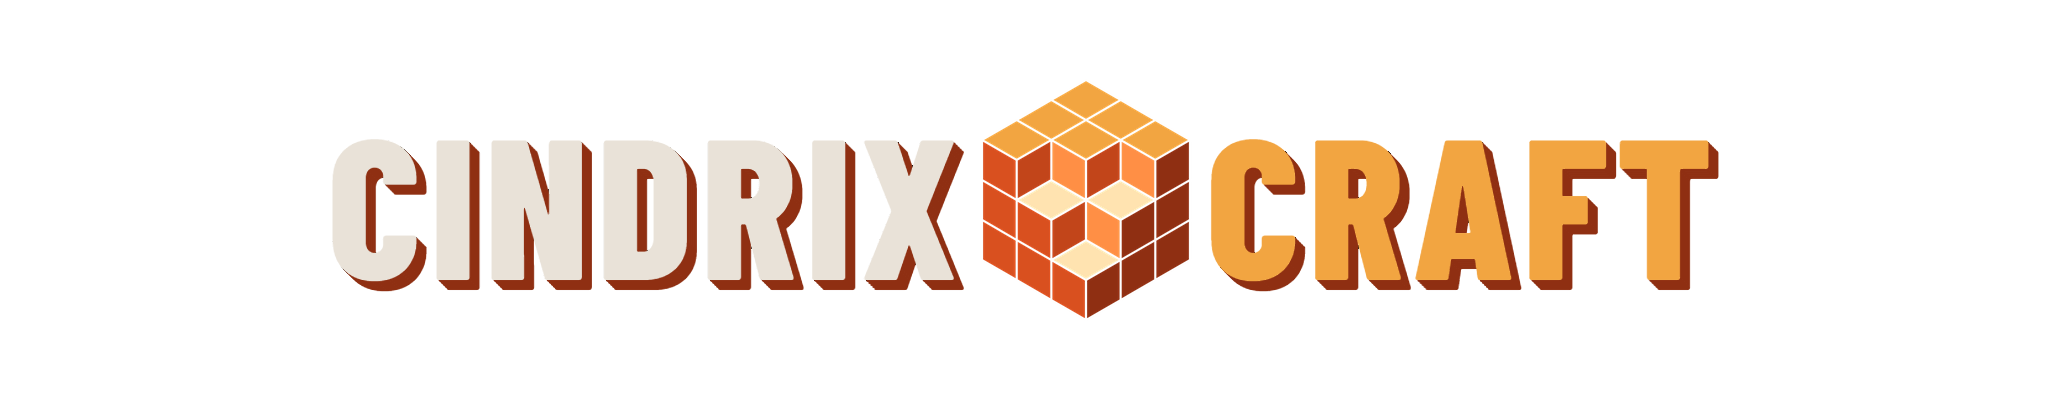
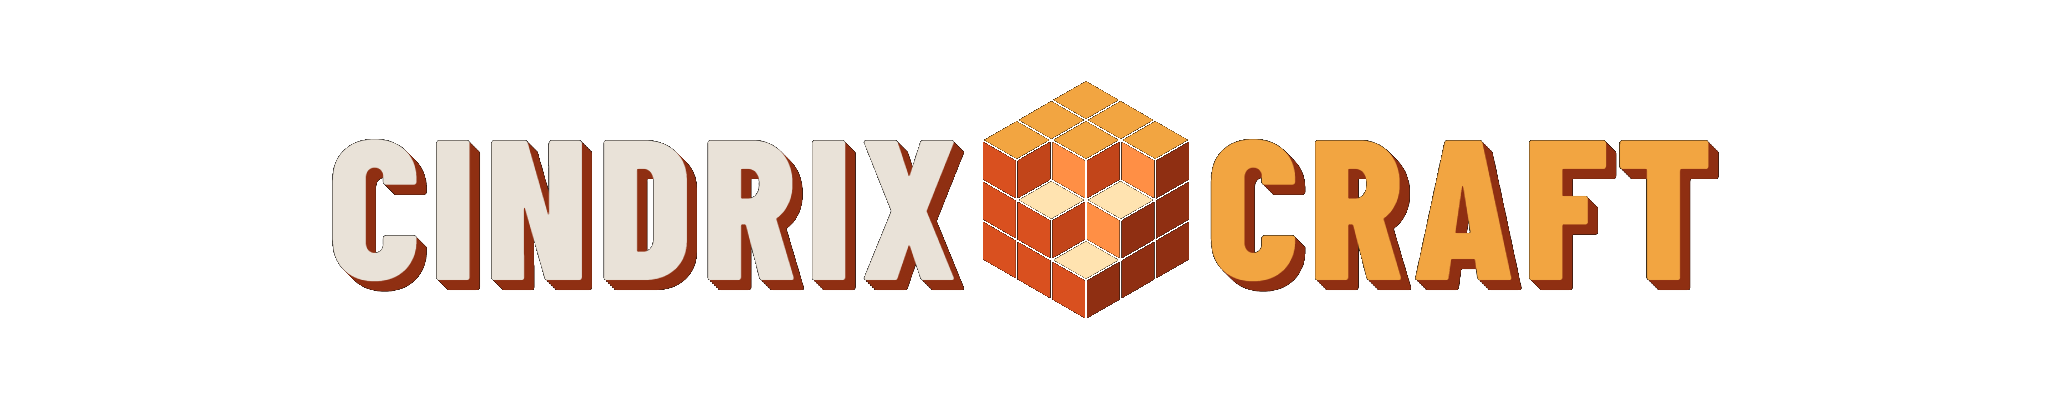
Branding: use canvas-exported transparent lockup, header and 1024 cube
Claude-Session: https://claude.ai/code/session_015sVCGdrAhJ2eFhxxmC8twE

diff --git a/branding/README.md b/branding/README.md
@@ -10,6 +10,7 @@ Locked-in logo design: a voxel cube (3x3x3 small cubes, with four removed at the
 | `cube-transparent.svg` | Same mark with no outline: the seams between voxels are see-through hairlines (SVG mask) |
 | `icon-512.png`, `icon-1024.png` | Square icon, cube on the dark ground |
 | `cube-512-transparent.png` | Cube alone on a transparent background |
+| `cube-1024-transparent.png` | Same, 1024x1024, exported from the design canvas |
 | `wordmark-lockup.png` | Full logo with tagline, 1760x1120 (2x of the 880x560 design) |
 | `menu-header.png` | Wide header for menus, 2048x400 (2x of the 1024x200 design) |
 | `wordmark-lockup-transparent.png` | Same lockup on a transparent background |
@@ -17,7 +18,7 @@ Locked-in logo design: a voxel cube (3x3x3 small cubes, with four removed at the
 
 The lockup and header were exported from the design canvas, so they use the exact typeface and spacing described below.
 
-**Transparent versions:** these have no outline. The cube comes from `cube-transparent.svg`, where the voxel faces keep their colours and the seams between them are cut out as see-through hairlines, so the mark sits on any background without a dark border. The lettering has its background removed with its true colours kept. The off-white CINDRIX lettering and the grey tagline fade out on very light backgrounds, so use these on dark or mid-tone backgrounds.
+**Transparent versions:** the lockup, header and 1024 cube are exported directly from the design canvas. They have no outline. The cube comes from `cube-transparent.svg`, where the voxel faces keep their colours and the seams between them are cut out as see-through hairlines, so the mark sits on any background without a dark border. The lettering has its background removed with its true colours kept. The off-white CINDRIX lettering and the grey tagline fade out on very light backgrounds, so use these on dark or mid-tone backgrounds.
 
 ## Palette
 
